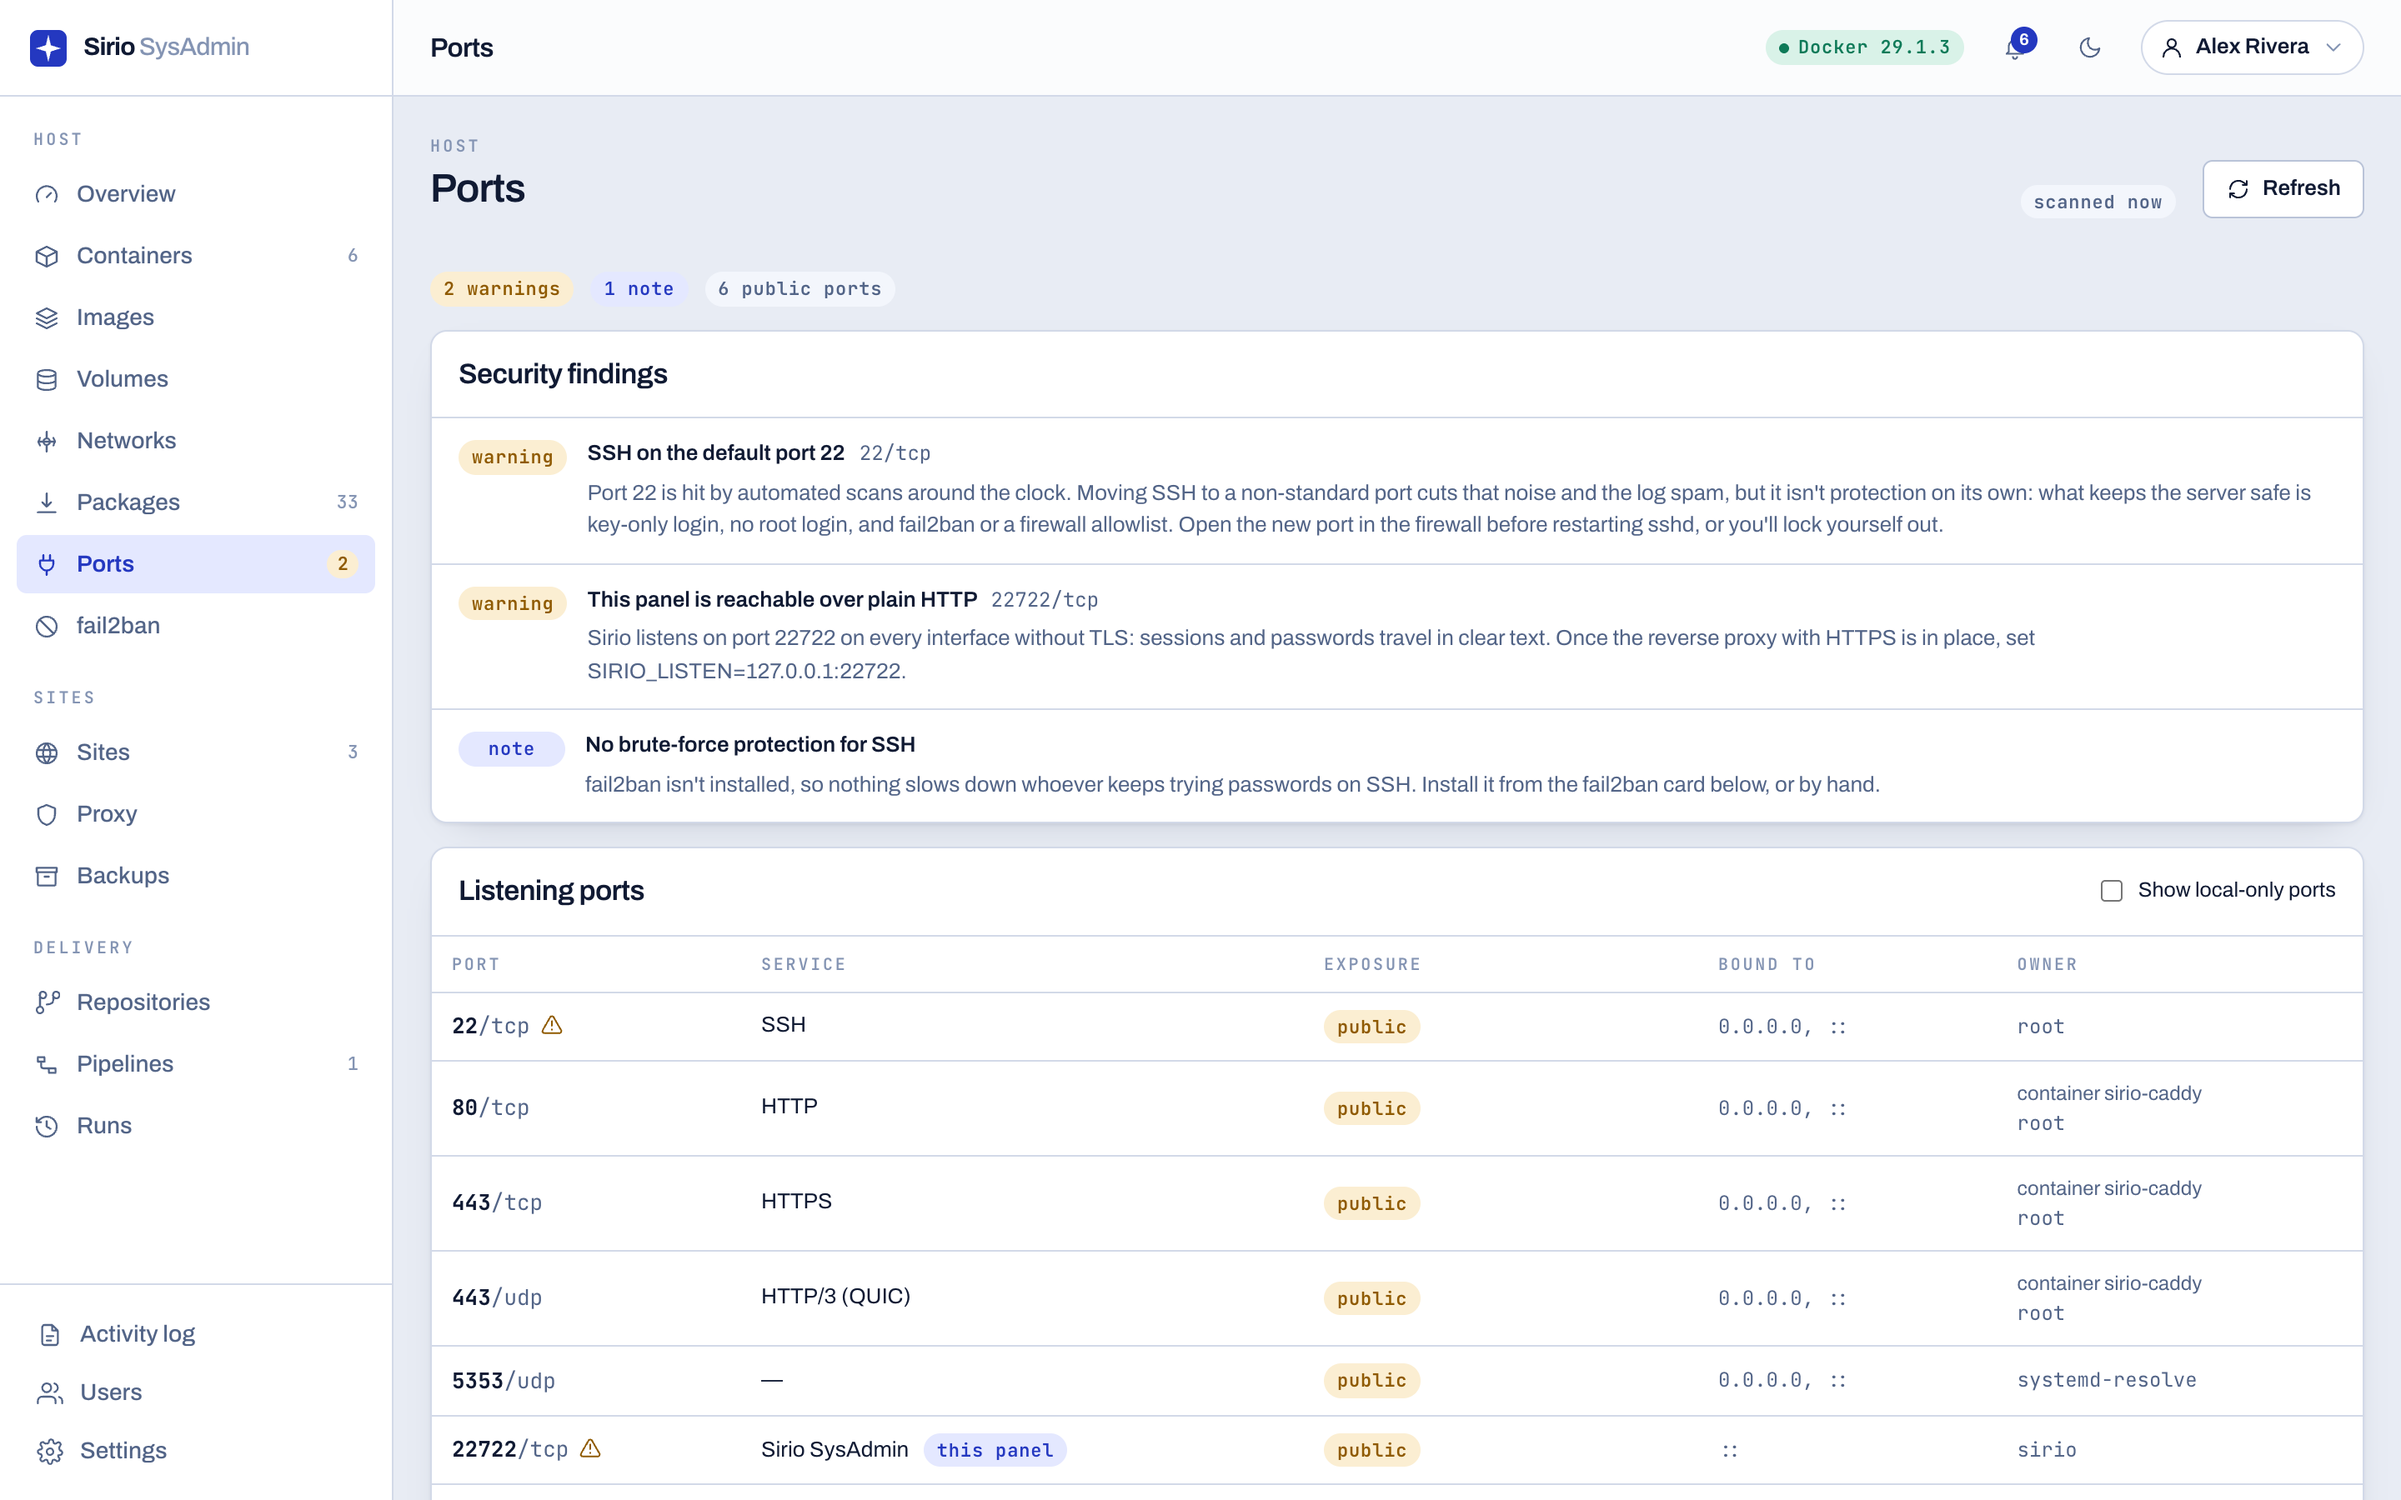
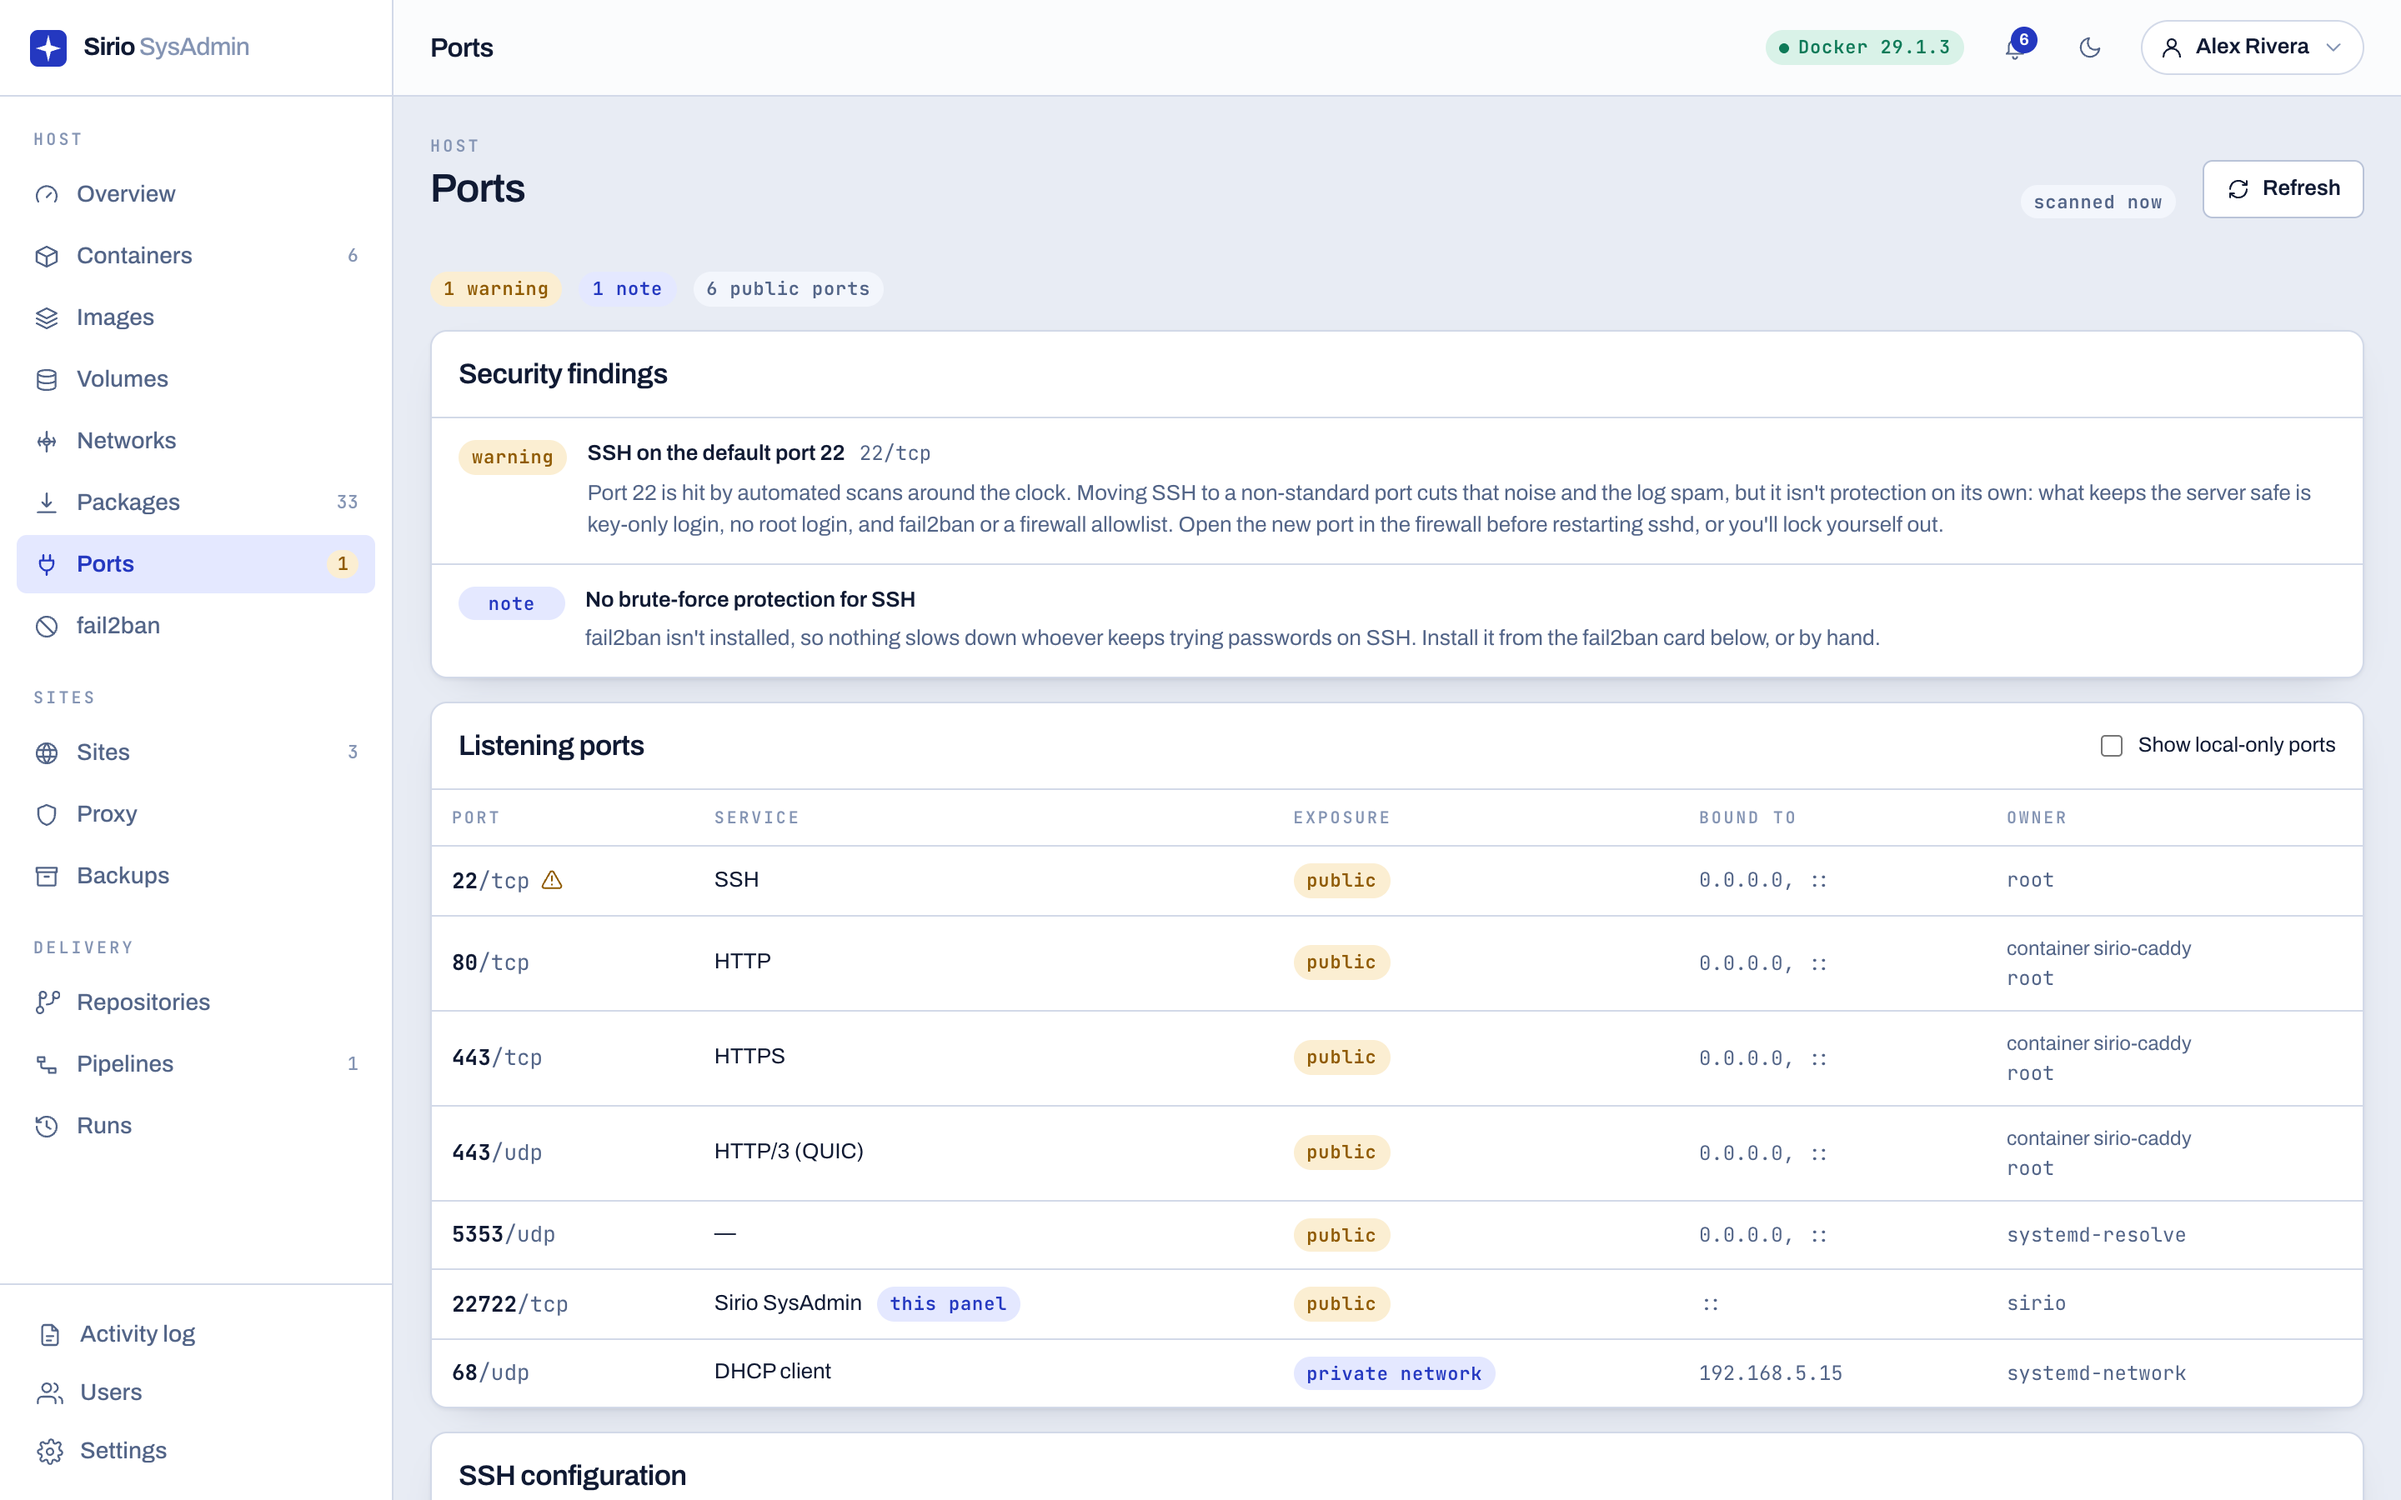
Document Sirio 0.27.0, retake the Ports screenshots
The changelog gets 0.27.0: a transfer can load a database into a new one,
and the duplicated disk alerts and the false plain-HTTP warning are fixed.
The Ports screenshots are taken again on 0.27.0, without that warning,
and their alt text follows.

diff --git a/src/components/changelog/copy.ts b/src/components/changelog/copy.ts
@@ -64,6 +64,39 @@ const maintainerOnly: Change = {
 
 export const releases: Release[] = [
 	{
+		version: '0.27.0',
+		date: '2026-11-20',
+		changes: [
+			{
+				kind: 'new',
+				text: {
+					en: 'A transfer can load a database into a new one: when you choose where a database goes, the menu also offers a new database in each receiving container of the same engine, created when it’s loaded. Before, only databases the receiving side already had were offered.',
+					it: 'Un trasferimento può caricare un database in uno nuovo: scegliendo dove va un database, il menu propone anche un nuovo database in ogni container che riceve dello stesso motore, creato al caricamento. Prima venivano proposti solo i database che chi riceve aveva già.',
+				},
+				link: 'transfers',
+				anchor: { en: 'what-a-transfer-copies', it: 'cosa-copia-un-trasferimento' },
+				more: { en: 'What a transfer copies', it: 'Cosa copia un trasferimento' },
+			},
+			{
+				kind: 'fixed',
+				text: {
+					en: 'A disk filling up sends one notification, not four: Sirio’s own sandboxing shows the root disk again at /tmp, /var/tmp and its data directory, and each one counted as a separate disk.',
+					it: 'Un disco che si riempie manda una notifica, non quattro: l’isolamento di Sirio stesso mostra il disco principale anche in /tmp, /var/tmp e nella sua cartella dati, e ognuno contava come un disco a parte.',
+				},
+			},
+			{
+				kind: 'fixed',
+				text: {
+					en: 'The Ports page no longer warns that the panel is reachable over plain HTTP when it serves HTTPS with the self-signed certificate, as a default install does.',
+					it: 'La pagina Porte non avvisa più che il pannello è raggiungibile in HTTP in chiaro quando serve HTTPS con il certificato autofirmato, come fa un’installazione predefinita.',
+				},
+				link: 'security',
+				anchor: { en: 'listening-ports', it: 'porte-in-ascolto' },
+				more: { en: 'Listening ports', it: 'Porte in ascolto' },
+			},
+		],
+	},
+	{
 		version: '0.26.0',
 		date: '2026-11-19',
 		title: { en: 'Transfers between panels', it: 'Trasferimenti tra pannelli' },

diff --git a/src/components/features/copy.ts b/src/components/features/copy.ts
@@ -359,7 +359,7 @@ export const features: Record<
 				shot: {
 					name: 'ports',
 					label: 'Host',
-					alt: 'The Ports page: warnings about SSH on the default port and the panel reachable over plain HTTP, a note that fail2ban isn’t installed, and the listening ports with their exposure and owner.',
+					alt: 'The Ports page: a warning about SSH on the default port, a note that fail2ban isn’t installed, and the listening ports with their exposure and owner.',
 					caption: 'Listening ports, with the warnings that matter.',
 				},
 				items: [
@@ -1000,7 +1000,7 @@ export const features: Record<
 				shot: {
 					name: 'ports',
 					label: 'Host',
-					alt: 'La pagina Porte: gli avvisi su SSH sulla porta predefinita e sul pannello raggiungibile in HTTP in chiaro, una nota su fail2ban non installato, e le porte in ascolto con esposizione e proprietario.',
+					alt: 'La pagina Porte: un avviso su SSH sulla porta predefinita, una nota su fail2ban non installato, e le porte in ascolto con esposizione e proprietario.',
 					caption: 'Le porte in ascolto, con gli avvisi che contano.',
 				},
 				items: [
